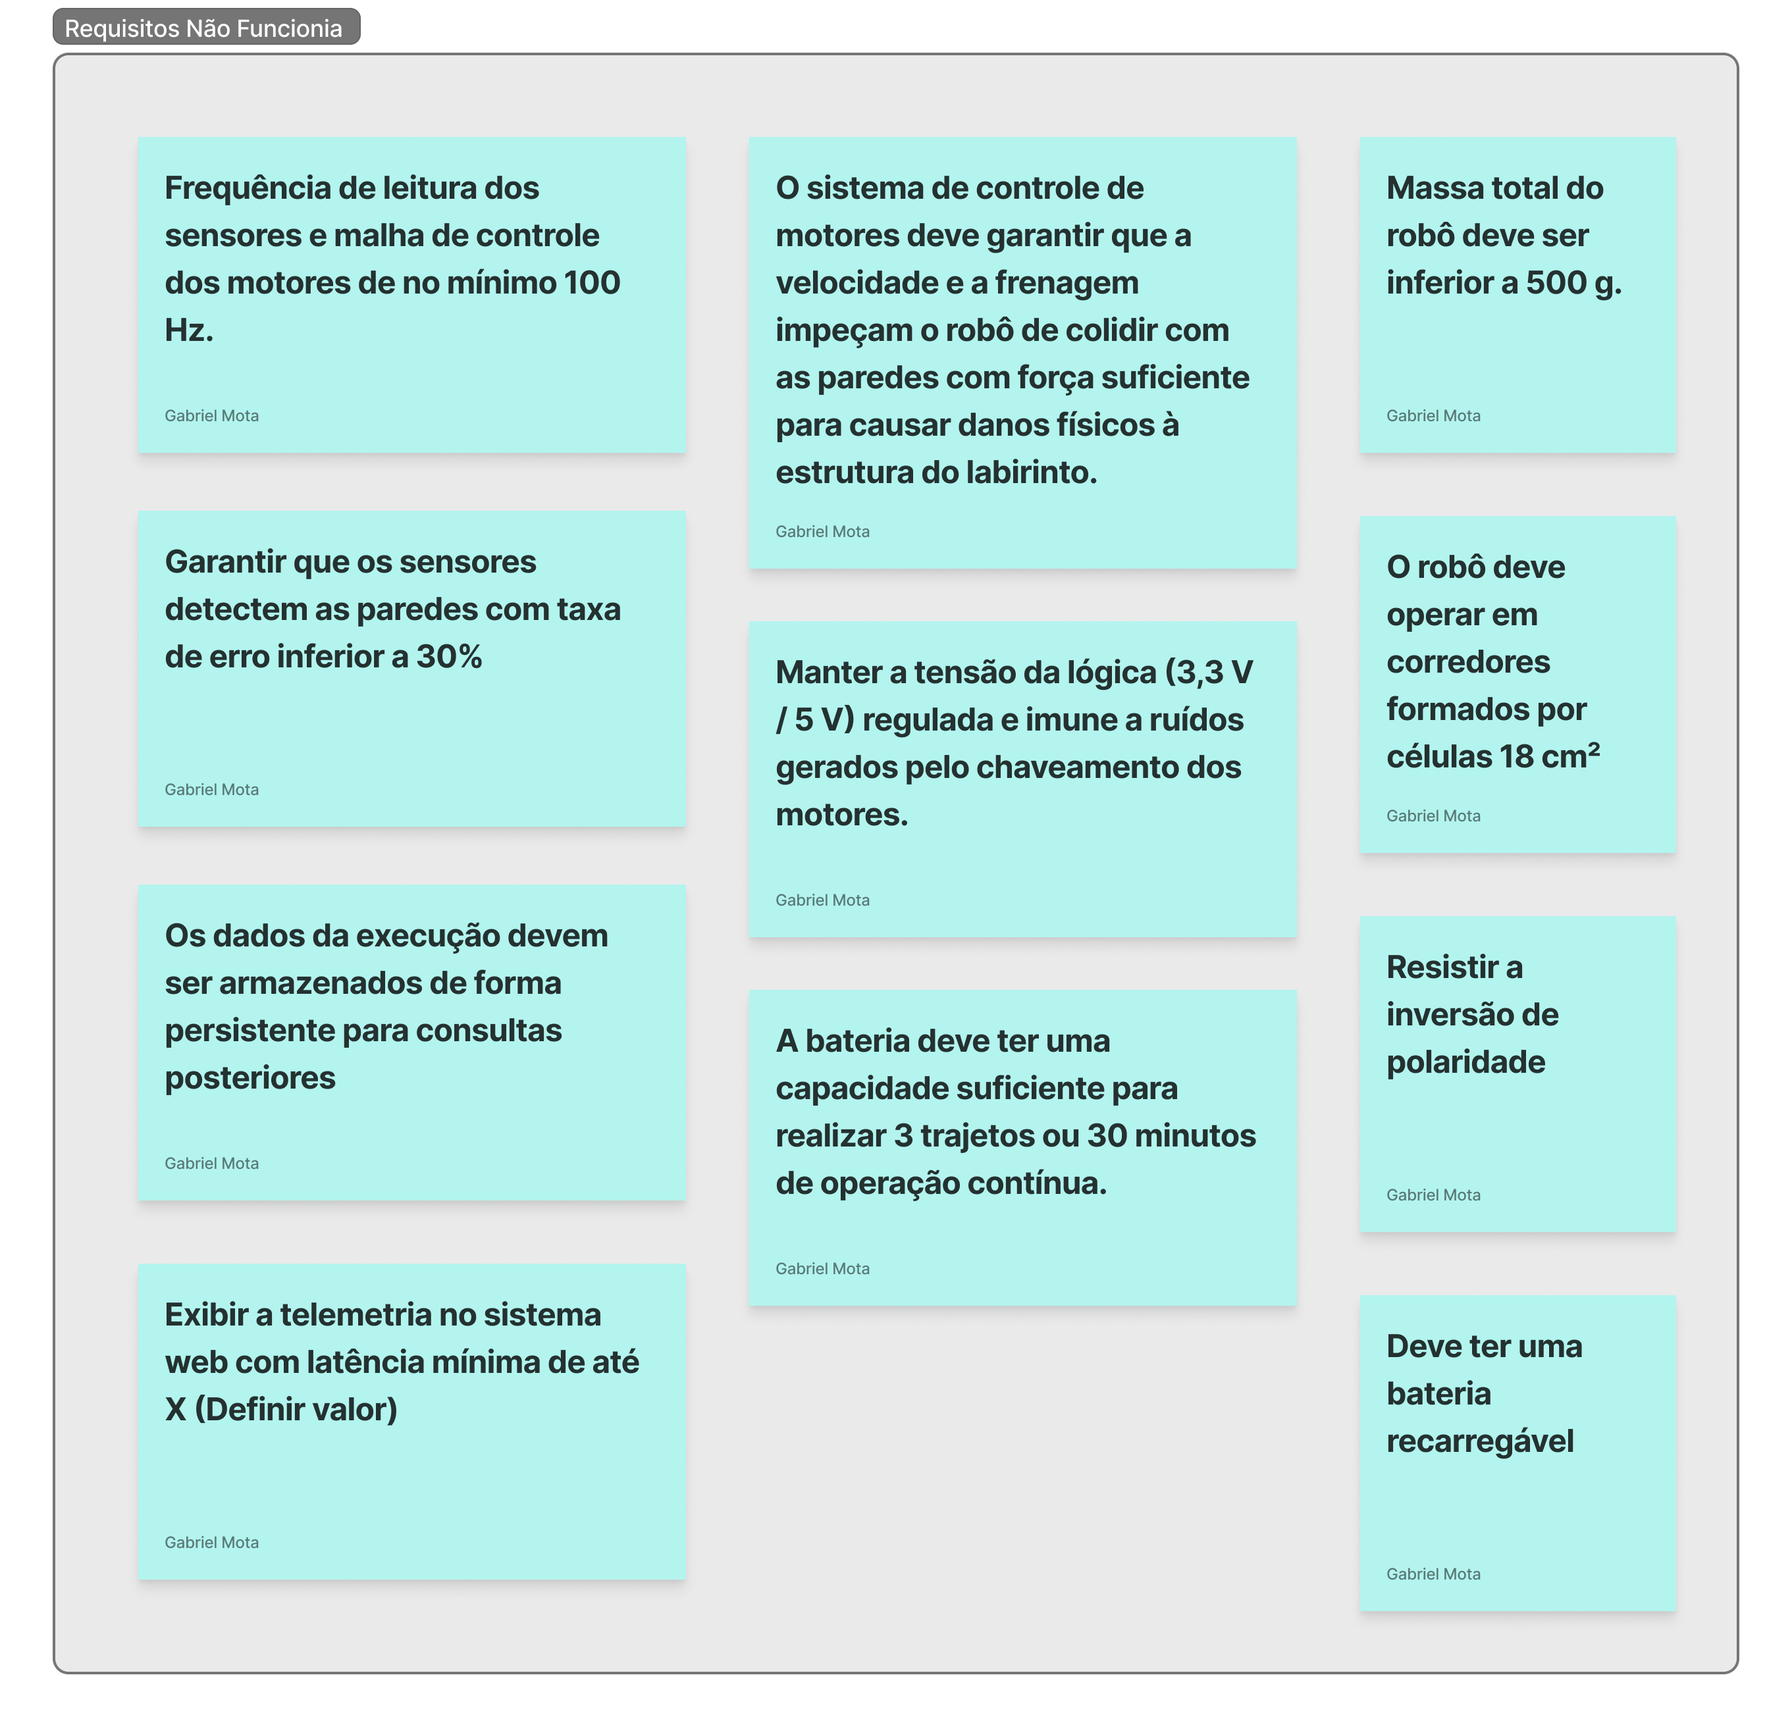
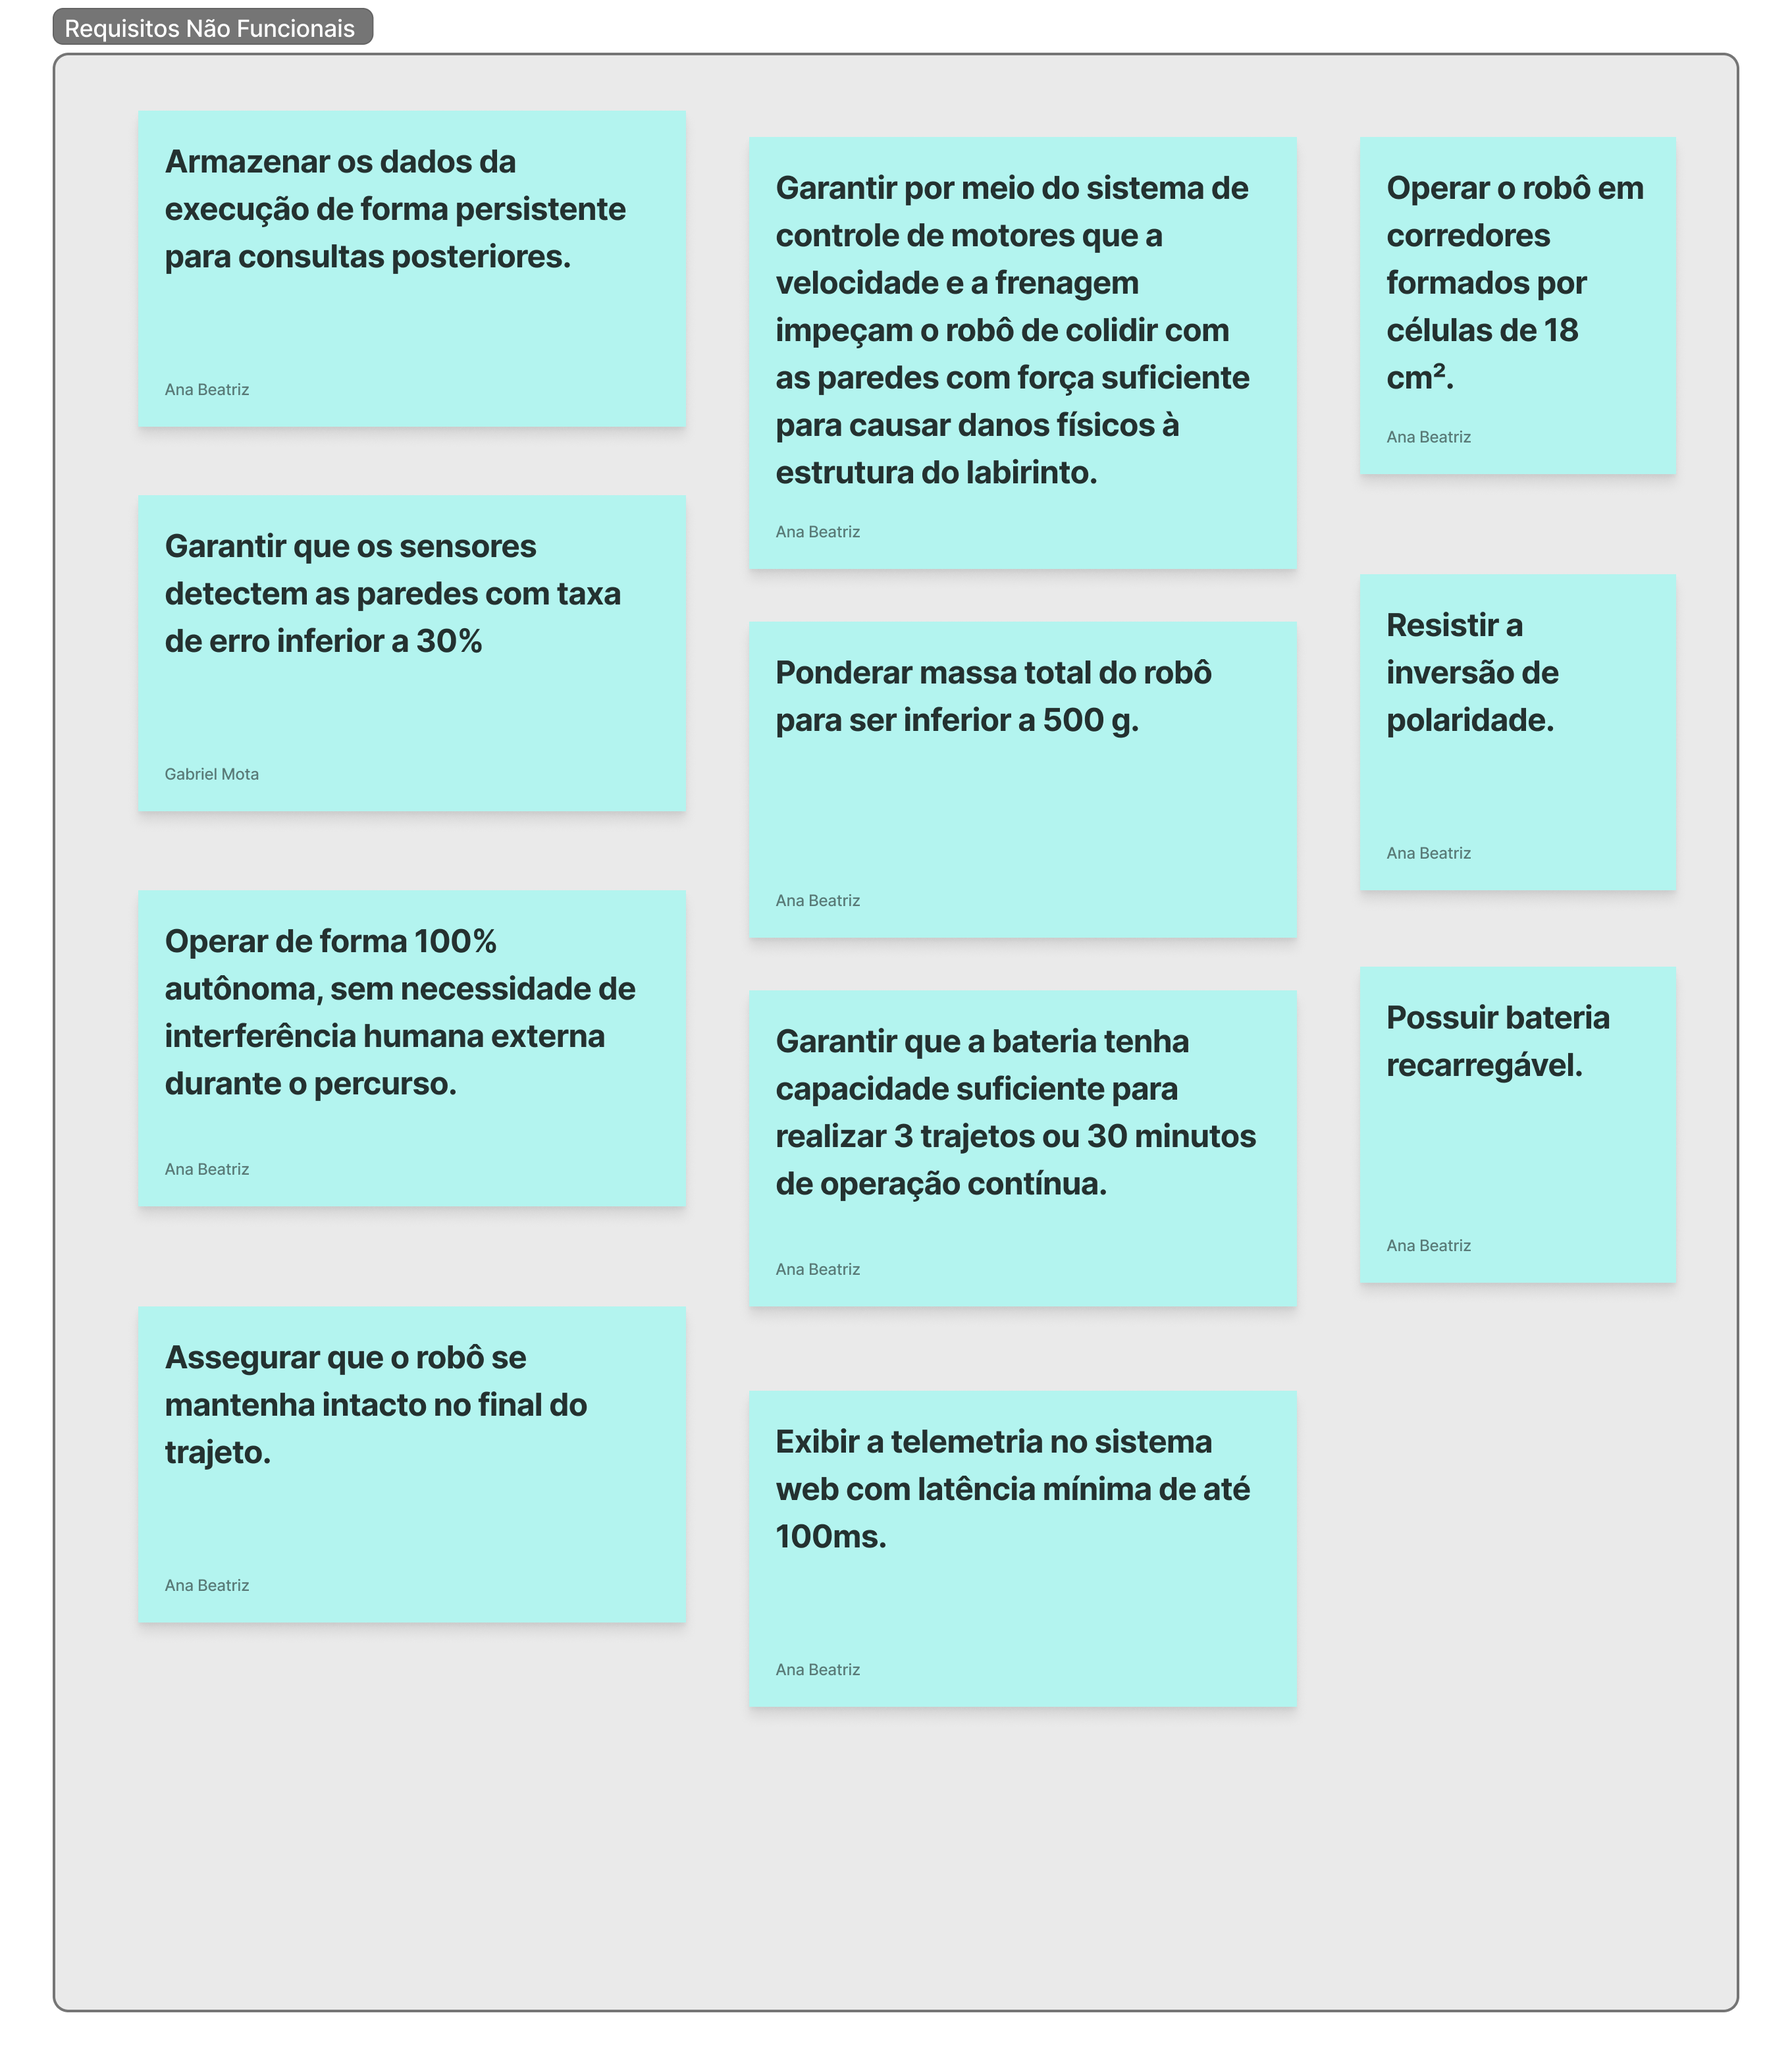
docs: Correcao documento requisitos

diff --git a/docs/2 - Requisitos/RF.md b/docs/2 - Requisitos/RF.md
@@ -1,6 +1,6 @@
 # Requisitos Funcionais
 
-Requisitos Funcionais definem as comportamentos observáveis, funcionalidades e ações diretas que o sistema deve executar. Em suma, representam o que o projeto deve fazer para atender às necessidades dos usuários e do negócio
+Requisitos Funcionais definem os comportamentos observáveis, funcionalidades e ações diretas que o sistema deve executar. Em suma, representam o que o projeto deve fazer para atender às necessidades dos usuários e do negócio.
 
 ---
 
@@ -8,18 +8,18 @@ Requisitos Funcionais definem as comportamentos observáveis, funcionalidades e 
 
 | **ID** | **Nome do Requisito** | **Descrição** | **Prioridade** | **Responsáveis** | **Link Github Projects** |
 |:------:|------------------------|---------------|:--------------:|------------------|--------------------------|
-| **RF01** | Mapear Labirinto | Realizar o mapeamento contínuo da estrutura do labirinto à medida que o robô se desloca. | Must Have |  | - |
-| **RF02** | Exibir dados do Labirinto | Apresentar em interface os dados estruturais e o mapa gerado do labirinto. | Must Have |  | - |
-| **RF03** | Exibir dados do MicroMouse | Exibir em tempo real as informações de status, parâmetros e estado do robô MicroMouse. | Must Have |  | - |
-| **RF04** | Identificar Paredes | Detectar a presença e a proximidade de paredes adjacentes ao robô. | Must Have |  | - |
-| **RF05** | Monitorar Localização | Acompanhar e atualizar a posição exata do robô dentro da grade do labirinto. | Must Have |  | - |
-| **RF06** | Transmitir dados | Enviar os dados coletados pelos sensores e sistema de bordo para a central de controle. | Must Have |  | - |
-| **RF07** | Fazer giro completo | Executar a rotação controlada de retorno (giro completo/180°) no próprio eixo. | Must Have |  | - |
-| **RF08** | Andar para frente | Executar o deslocamento linear para a frente ao longo das células do labirinto. | Must Have |  | - |
-| **RF09** | Armazenar dados | Registrar e salvar localmente as informações operacionais coletadas durante a navegação. | Must Have |  | - |
-| **RF10** | Navegar labirinto | Executar os algoritmos de busca e tomada de decisão para percorrer autonomamente o labirinto. | Must Have |  | - |
-| **RF11** | Realizar telemetria | Coletar e transmitir métricas de operação do sistema para acompanhamento contínuo. | Must Have |  | - |
-| **RF12** | Reconhecer Linha de Chegada | Identificar o momento exato de cruzamento ou chegada no objetivo/centro do labirinto. | Should Have |  | - |
-| **RF13** | Andar para trás | Executar a movimentação em marcha à ré. | Should Have |  | - |
-| **RF14** | Registrar eventos | Manter histórico ordenado de eventos, erros e diagnósticos do sistema. | Should Have |  | - |
-| **RF15** | Interromper motores | Cessar imediatamente a alimentação dos motores em caso de conclusão, parada ou falha. | Should Have |  | - |
+| **RF01** | Mapear Labirinto | Realizar o mapeamento contínuo da estrutura do labirinto à medida que o robô se desloca. | Must Have | Software | [#18](https://github.com/fcte-pi1/2026.2_PI1_Grupo2_Lui/issues/18) |
+| **RF02** | Exibir dados do Labirinto | Apresentar em interface os dados estruturais e o mapa gerado do labirinto. | Must Have | Software | [#19](https://github.com/fcte-pi1/2026.2_PI1_Grupo2_Lui/issues/19) |
+| **RF03** | Exibir dados do MicroMouse | Exibir em tempo real as informações de status, parâmetros e estado do robô MicroMouse. | Must Have | Software | [#20](https://github.com/fcte-pi1/2026.2_PI1_Grupo2_Lui/issues/20) |
+| **RF04** | Identificar Paredes | Detectar a presença e a proximidade de paredes adjacentes ao robô. | Must Have | Eletrônica | [#21](https://github.com/fcte-pi1/2026.2_PI1_Grupo2_Lui/issues/21) |
+| **RF05** | Monitorar Localização | Acompanhar e atualizar a posição exata do robô dentro da grade do labirinto. | Must Have | Software | [#22](https://github.com/fcte-pi1/2026.2_PI1_Grupo2_Lui/issues/22) |
+| **RF06** | Transmitir dados | Enviar os dados coletados pelos sensores e sistema de bordo para a central de controle. | Must Have | Eletrônica | [#23](https://github.com/fcte-pi1/2026.2_PI1_Grupo2_Lui/issues/23) |
+| **RF07** | Fazer giro completo | Executar a rotação controlada de retorno (giro completo/180°) no próprio eixo. | Must Have | Estruturas | [#24](https://github.com/fcte-pi1/2026.2_PI1_Grupo2_Lui/issues/24) |
+| **RF08** | Andar para frente | Executar o deslocamento linear para a frente ao longo das células do labirinto. | Must Have | Estruturas | [#25](https://github.com/fcte-pi1/2026.2_PI1_Grupo2_Lui/issues/25) |
+| **RF09** | Armazenar dados | Registrar e salvar localmente as informações operacionais coletadas durante a navegação. | Must Have | Software | [#26](https://github.com/fcte-pi1/2026.2_PI1_Grupo2_Lui/issues/26) |
+| **RF10** | Navegar labirinto | Executar os algoritmos de busca e tomada de decisão para percorrer autonomamente o labirinto. | Must Have | Software | [#27](https://github.com/fcte-pi1/2026.2_PI1_Grupo2_Lui/issues/27) |
+| **RF11** | Realizar telemetria | Coletar e transmitir métricas de operação do sistema para acompanhamento contínuo. | Must Have | Eletrônica | [#28](https://github.com/fcte-pi1/2026.2_PI1_Grupo2_Lui/issues/28) |
+| **RF12** | Reconhecer Linha de Chegada | Identificar o momento exato de cruzamento ou chegada no objetivo/centro do labirinto. | Should Have | Eletrônica | [#29](https://github.com/fcte-pi1/2026.2_PI1_Grupo2_Lui/issues/29) |
+| **RF13** | Andar para trás | Executar a movimentação em marcha à ré. | Should Have | Estruturas | [#30](https://github.com/fcte-pi1/2026.2_PI1_Grupo2_Lui/issues/30) |
+| **RF14** | Registrar eventos | Manter histórico ordenado de eventos, erros e diagnósticos do sistema. | Should Have | Software | [#31](https://github.com/fcte-pi1/2026.2_PI1_Grupo2_Lui/issues/31) |
+| **RF15** | Interromper motores | Cessar imediatamente a alimentação dos motores em caso de conclusão, parada ou falha. | Should Have | Energia | [#32](https://github.com/fcte-pi1/2026.2_PI1_Grupo2_Lui/issues/32) |

diff --git a/docs/2 - Requisitos/RNF.md b/docs/2 - Requisitos/RNF.md
@@ -6,16 +6,16 @@ Requisitos não funcionais não possuem em seu escopo o tratamento dos serviços
 
 ## RNF Declarados
 
-| **ID** | **Descrição** | **Prioridade** | **Responsáveis** | **Link Github Projects** |
-|:------:|---------------|:--------------:|------------------|--------------------------|
-| **RNF01** | Armmazenar os dados da execução de forma persistente para consultas posteriores. | Must Have |  | - |
-| **RNF02** | Garantir que a bateria tenha capacidade suficiente para realizar 3 trajetos ou 30 minutos de operação contínua. | Must Have |  | - |
-| **RNF03** | Possuir bateria recarregável. | Must Have |  | - |
-| **RNF04** | Operar o robô em corredores formados por células de 18 cm². | Must Have |  | - |
-| **RNF05** | Garantir por meio do sistema de controle de motores que a velocidade e a frenagem impeçam o robô de colidir com as paredes com força suficiente para causar danos físicos à estrutura do labirinto. | Must Have |  | - |
-| **RNF06** |   Assegurar que o robô se mantenha intacto no final do trajeto. | Must Have |  | - |
-| **RNF07** |   Operar de forma 100% autônoma, sem necessidade de interferência humana externa durante o percurso. | Must Have |  | - |
-| **RNF08** |  Resistir a inversão de polaridade. | Should Have |  | - |
-| **RNF09** |  Garantir que os sensores detectem as paredes com taxa de erro inferior a 30%. | Could Have |  | - |
-| **RNF10** |  Ponderar massa total do robô para ser inferior a 500 g. | Could Have |  | - |
-| **RNF11** |  Exibir a telemetria no sistema web com latência mínima de até 100ms. | Won tHave |  | - |
+| **ID** | **Nome do Requisito** | **Descrição** | **Prioridade** | **Responsáveis** | **Link Github Projects** |
+|:------:|-----------------------|---------------|:--------------:|------------------|--------------------------|
+| **RNF01** | Persistência de Dados Operacionais | Armazenar os dados da execução de forma persistente para consultas posteriores. | Must Have | Software | [#33](https://github.com/fcte-pi1/2026.2_PI1_Grupo2_Lui/issues/33) |
+| **RNF02** | Autonomia da Bateria | Garantir que a bateria tenha capacidade suficiente para realizar 3 trajetos ou 30 minutos de operação contínua. | Must Have | Energia | [#34](https://github.com/fcte-pi1/2026.2_PI1_Grupo2_Lui/issues/34) |
+| **RNF03** | Fonte de Energia Recarregável | Possuir bateria recarregável. | Must Have | Energia | [#35](https://github.com/fcte-pi1/2026.2_PI1_Grupo2_Lui/issues/35) |
+| **RNF04** | Compatibilidade de Dimensão Mecânica | Operar o robô em corredores formados por células de 18 cm². | Must Have | Estruturas | [#36](https://github.com/fcte-pi1/2026.2_PI1_Grupo2_Lui/issues/36) |
+| **RNF05** | Tolerância a Colisão e Controle Impacto | Garantir por meio do sistema de controle de motores que a velocidade e a frenagem impeçam o robô de colidir com as paredes com força suficiente para causar danos físicos à estrutura do labirinto. | Must Have | Software | [#37](https://github.com/fcte-pi1/2026.2_PI1_Grupo2_Lui/issues/37) |
+| **RNF06** | Integridade Estrutural | Assegurar que o robô se mantenha intacto no final do trajeto. | Must Have | Estruturas | [#38](https://github.com/fcte-pi1/2026.2_PI1_Grupo2_Lui/issues/38) |
+| **RNF07** | Autonomia de Navegação Embarcada | Operar de forma 100% autônoma, sem necessidade de interferência humana externa durante o percurso. | Must Have | Software | [#39](https://github.com/fcte-pi1/2026.2_PI1_Grupo2_Lui/issues/39) |
+| **RNF08** | Proteção contra Inversão de Polaridade | Resistir à inversão de polaridade. | Should Have | Eletrônica | [#40](https://github.com/fcte-pi1/2026.2_PI1_Grupo2_Lui/issues/40) |
+| **RNF09** | Precisão de Leitura dos Sensores | Garantir que os sensores detectem as paredes com taxa de erro inferior a 30%. | Could Have | Eletrônica | [#41](https://github.com/fcte-pi1/2026.2_PI1_Grupo2_Lui/issues/41) |
+| **RNF10** | Limite de Massa Total | Ponderar massa total do robô para ser inferior a 500 g. | Could Have | Estruturas | [#42](https://github.com/fcte-pi1/2026.2_PI1_Grupo2_Lui/issues/42) |
+| **RNF11** | Latência na Exibição da Telemetria | Exibir a telemetria no sistema web com latência mínima de até 100ms. | Won't Have | Software | [#43](https://github.com/fcte-pi1/2026.2_PI1_Grupo2_Lui/issues/43) |

diff --git a/docs/2 - Requisitos/Matriz de Rastreabilidade.md b/docs/2 - Requisitos/Matriz de Rastreabilidade.md
@@ -8,7 +8,7 @@ Este documento consolida o painel interativo do Figma e a galeria de evidências
 
 ## Painel de Fotos
 
-Aqui esta a colecao de fotos detalhadas da matriz de Rastreabilidade que fizemos no figma para que facilite a vizualizacão
+Aqui está a coleção de fotos detalhadas da matriz de rastreabilidade que fizemos no Figma para que facilite a visualização
 
 ### Requisitos Funcionais
 
@@ -18,9 +18,9 @@ Aqui esta a colecao de fotos detalhadas da matriz de Rastreabilidade que fizemos
 
 ![Requisitos Funcionais](../figs/Requisitos/Requisito%20Não%20Funcional.png)
 
-### Moscow
+### MoSCoW
 
-![Requisitos Funcionais](../figs/Requisitos/Moscow.png)
+![Requisitos Funcionais](../figs/Requisitos/MoSCoW.png)
 
 ### Must Have
 

diff --git a/docs/2 - Requisitos/MVP.md b/docs/2 - Requisitos/MVP.md
@@ -47,7 +47,7 @@ A tabela abaixo compõe as restrições técnicas, parâmetros elétricos e de d
 
 | **ID** | **Requisito Não Funcional** |
 |:------:|---------------|
-| [RNF01](RNF.md#rnf-declarados) | Armmazenar os dados da execução de forma persistente para consultas posteriores. |
+| [RNF01](RNF.md#rnf-declarados) | Armazenar os dados da execução de forma persistente para consultas posteriores. |
 | [RNF02](RNF.md#rnf-declarados) | Garantir que a bateria tenha capacidade suficiente para realizar 3 trajetos ou 30 minutos de operação contínua. |
 | [RNF03](RNF.md#rnf-declarados) | Possuir bateria recarregável. |
 | [RNF04](RNF.md#rnf-declarados) | Operar o robô em corredores formados por células de 18 cm². |
